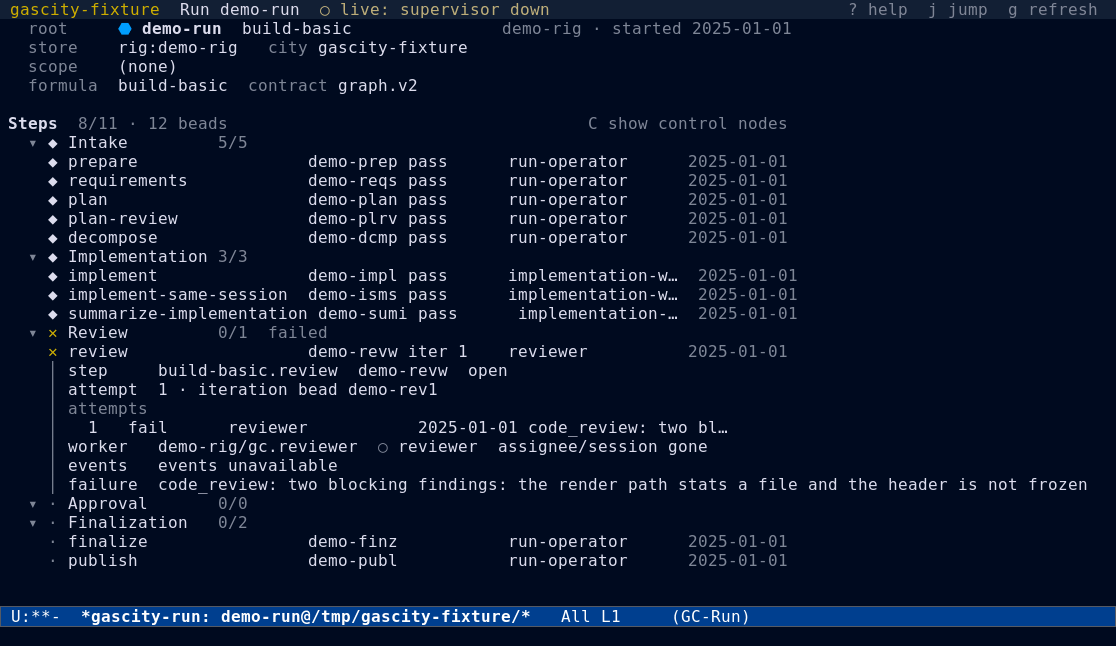
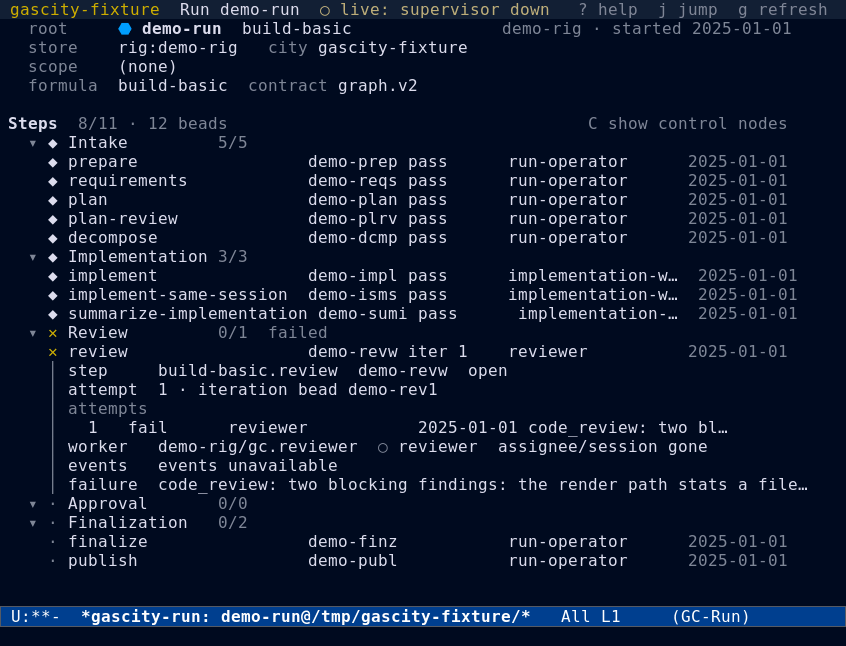
docs(manual): document the cockpit/run diagnostics batch (ga-bc5tg)
Doc/gascity.texi, The Runs view: replace the stale starved facts-line
example with the line the code renders for the AC-2 values (78 columns),
rewrite the facts-line paragraph (columns stage/step/fail/work, 12/21/22/12
wide including the label, value budgets 6/16/17/7, always 78 columns, cut
values in help-echo), say on the failed-card paragraph that its last cell
is the failure reason cut to the width left with the full text in
help-echo, note the same for the run-detail failure item, and update the
cockpit Needs you bullet for the failed-run row/drawer (class, step,
reason) and the stalled-agent stall age plus lease/heartbeat.

NEWS.md, Unreleased: one "Cockpit and run diagnostics" entry listing the
five user-visible behaviours (ga-shl0s, ga-v67dq, ga-wjlx6, ga-th2e2,
ga-vinoi).

doc/images: regenerate cockpit-dark, cockpit-light and run-detail-dark
plus thumbs from doc/screenshots/capture.sh.  The images were captured in
a scratch tree with the batch implementations merged (W1..W5: af17537,
c569d86, 7f35b9d, feaaf0b, bf470e9) because the per-item worktrees are
not merged yet; `capture.sh --verify cockpit,runs,run-detail` is
byte-identical over two runs, and runs-dark is unchanged (the fixture's
Runs view renders no history or failed card, so its facts line does not
appear in the committed image).

Implements plan section 6 (REQ-006, AC-6).

diff --git a/NEWS.md b/NEWS.md
@@ -4,6 +4,38 @@ User-visible and API-breaking changes, newest first.
 
 ## Unreleased
 
+### Cockpit and run diagnostics
+
+A failed run in the cockpit's Needs you section now explains its
+failure on the spot: the row's right column carries the failure class
+(cut to 20 columns, full text in help-echo), and the drawer names the
+class, the failed step and the first line of the reason, with the full
+reason in help-echo and the `RET run detail`/`b root bead` hints; the
+rig moves to the drawer (ga-shl0s).
+
+The Runs history facts line budgets each of its four values separately
+from its dim label (`stage` 6, `step` 16, `fail` 17, `work` 7 columns),
+so a stage reads `Review` instead of `Rev…` and every cell keeps its
+full text in help-echo when cut; the line stays exactly 78 columns
+(ga-v67dq).
+
+Long `gc.failure_reason`/`close_reason` text in a Runs failed card, the
+run-detail step and drain-member drawers, and the cockpit's failed-run
+drawer is now cut to the width the line leaves with the full reason in
+help-echo, instead of running off the window edge (ga-wjlx6).
+
+The Events detail for a `bead.closed` (or `bead.updated`) payload now
+lists the bead's `close_reason` and `gc.failure_class` as their own
+`key value` lines, fitted to the drawer width with the full value in
+help-echo, and never repeats a key already shown for the event
+(ga-th2e2).
+
+A stalled agent's cockpit row now says how long it has been stalled,
+and its drawer adds the timestamp that age counts from plus the hooked
+bead's lease expiry and heartbeat when `gc` reports them; the reason
+(`running, no live session`) is never squeezed out by a long qualified
+name, and an unknown timestamp reads `unknown` (ga-vinoi).
+
 ### The run detail's header names the run's provenance
 
 The header now labels every fact it holds instead of printing one
